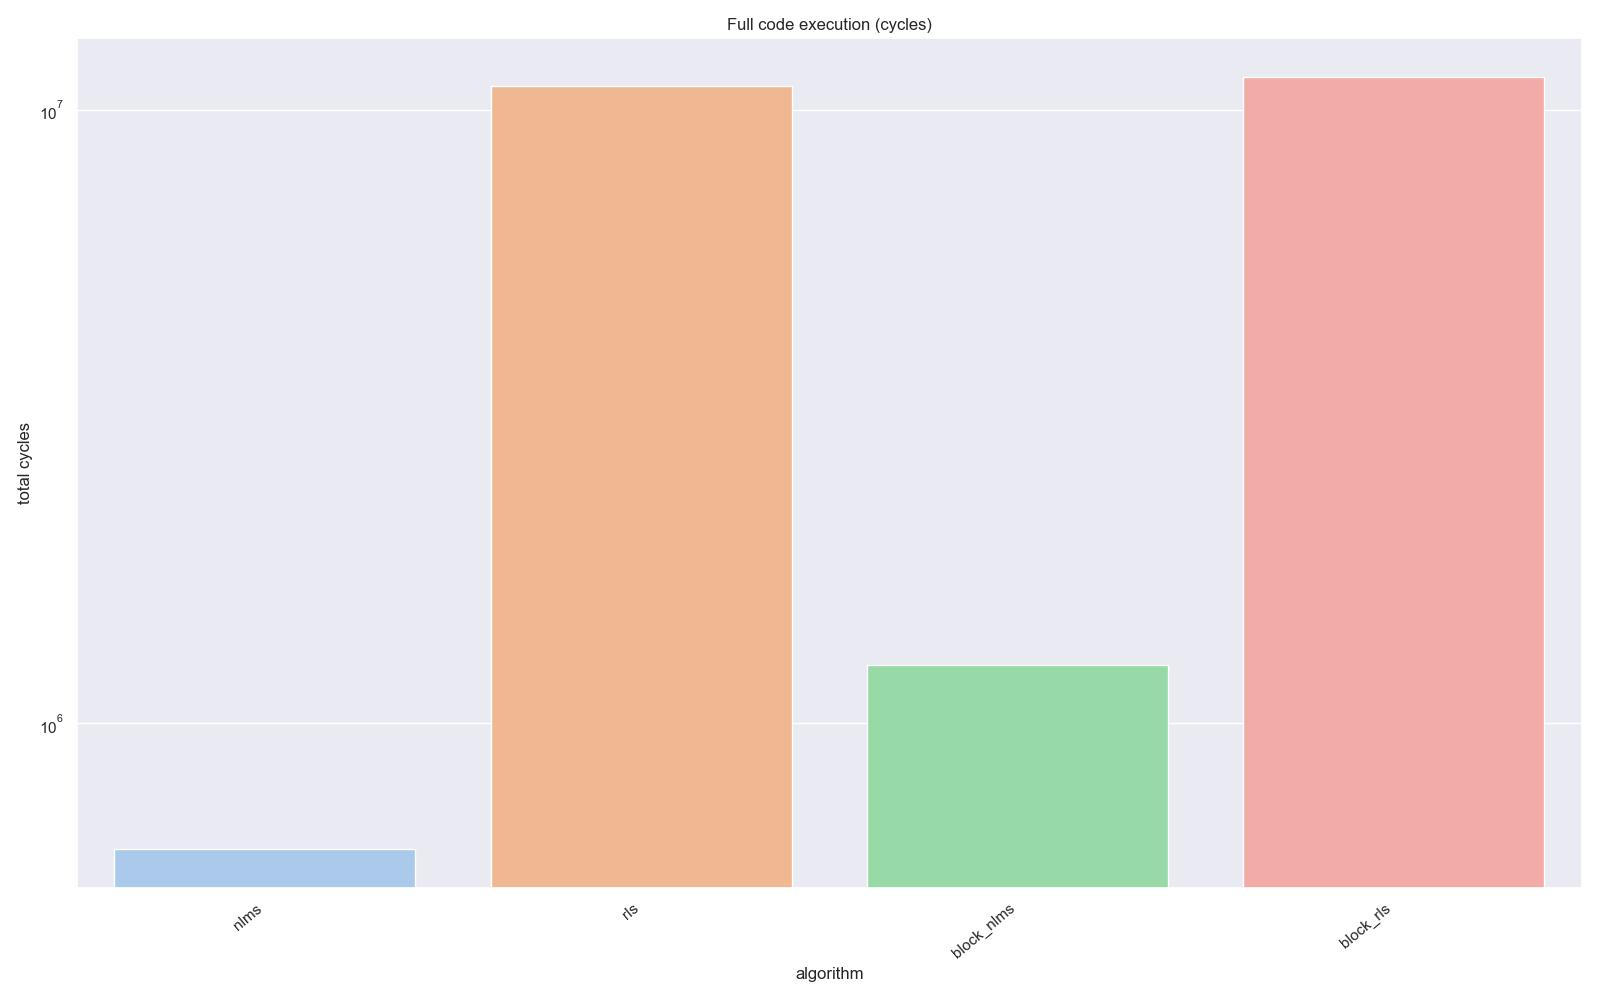
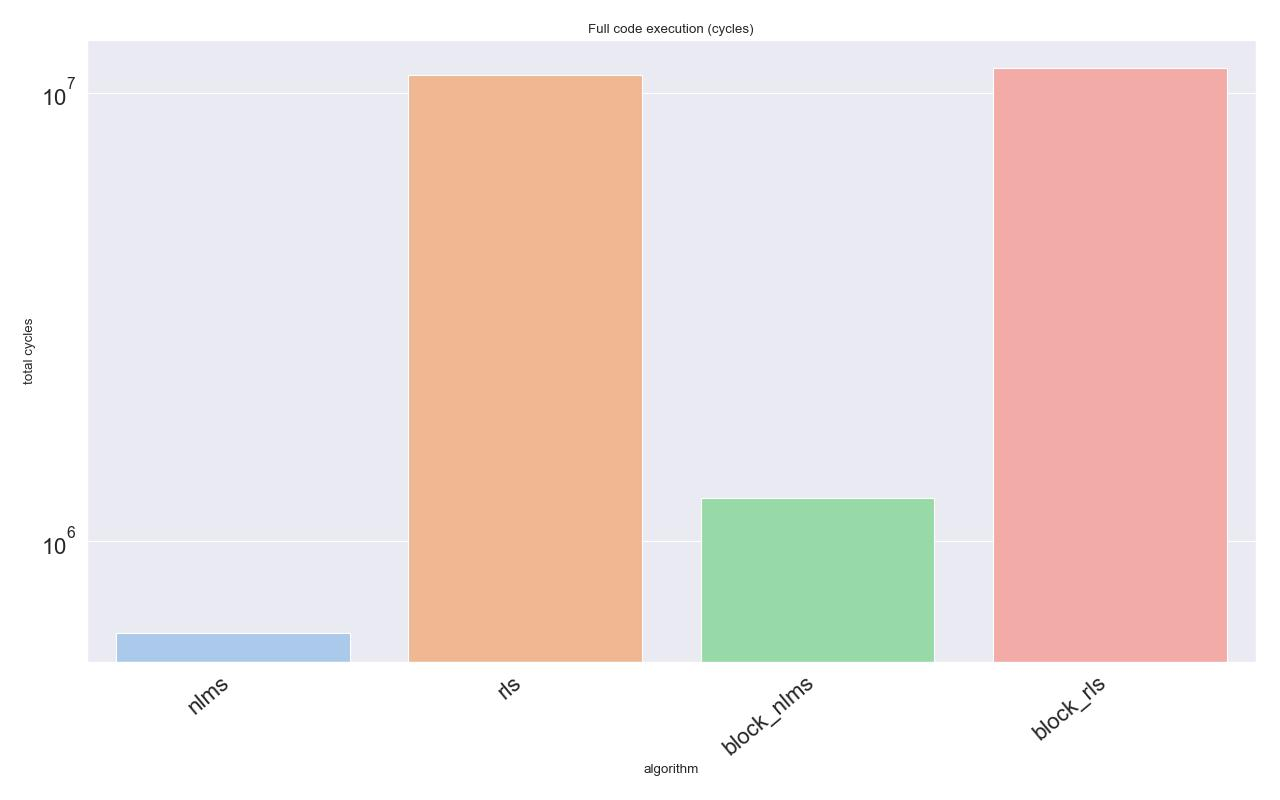
Added plot for optimized algorithm perforamnce recording

diff --git a/AdaptiveFiltersPy/data_visualization.py b/AdaptiveFiltersPy/data_visualization.py
@@ -55,49 +55,56 @@ if __name__ == '__main__':
     print('Data frame infos:')
     print(df.info())
 
-    # gather informations of the algorithms runnning on the whole 2048 samples with 116 bit filter
+    # gather informations of the algorithms runnning on the whole 2048 samples with 16 bit filter
     whole_code_df = df[df['code_portion'] == 'whole code']
     print('Full code performances:')
     print(whole_code_df)
 
-    """ print_bar_graph(df=whole_code_df,
+    print_bar_graph(df=whole_code_df,
                 x_axis='algorithm',
                 title='Full code execution',
-                file_name='full_code') """
+                file_name='full_code')
+
+    # gather informations of the optimized algorithms runnning on the whole 2048 samples with 16 bit filter
+    whole_code_df = df[df['code_portion'] == 'whole code (opt)']
+    print('Full code performances:')
+    print(whole_code_df)
+
+    print_bar_graph(df=whole_code_df,
+                x_axis='algorithm',
+                title='Full code execution (optimized)',
+                file_name='full_code_optimized')
 
     nlms_df = df[df['algorithm'] == 'nlms']
     rls_df = df[df['algorithm'] == 'rls']
     block_nlms_df = df[df['algorithm'] == 'block_nlms']
     block_rls_df = df[df['algorithm'] == 'block_rls']
 
-    # first row is the full code, so we don't want it
+    # first row are for the full code, full code optimized and the single iteration, so we don't want it
     print('NLMS performances:')
     print(nlms_df)
-    print_pie_graph(df=nlms_df.iloc[2:, :],
+    print_pie_graph(df=nlms_df.iloc[3:, :],
                 x_axis='code_portion',
                 title='NLMS Fine-grained Performances',
                 file_name='nlms_1_it_code_perf')
 
-    # first row is the full code, so we don't want it
     print('RLS performances:')
     print(rls_df)
-    print_pie_graph(df=rls_df.iloc[2:, :],
+    print_pie_graph(df=rls_df.iloc[3:, :],
                 x_axis='code_portion',
                 title='RLS Fine-grained Performances',
                 file_name='rls_1_it_code_perf')
 
-    # first row is full code, so we don't want it
     print('Block NLMS performances:')
     print(block_nlms_df)
-    print_pie_graph(df=block_nlms_df.iloc[2:, :],
+    print_pie_graph(df=block_nlms_df.iloc[3:, :],
                 x_axis='code_portion',
                 title='Block NLMS Fine-grained Performances',
                 file_name='block_nlms_1_it_code_perf')
 
-    # first row is full code, so we don't want it
     print('Block RLS performances:')
     print(block_rls_df)
-    print_pie_graph(df=block_rls_df.iloc[2:, :],
+    print_pie_graph(df=block_rls_df.iloc[3:, :],
                 x_axis='code_portion',
                 title='Block RLS Fine-grained Performances',
                 file_name='block_rls_1_it_code_perf')
